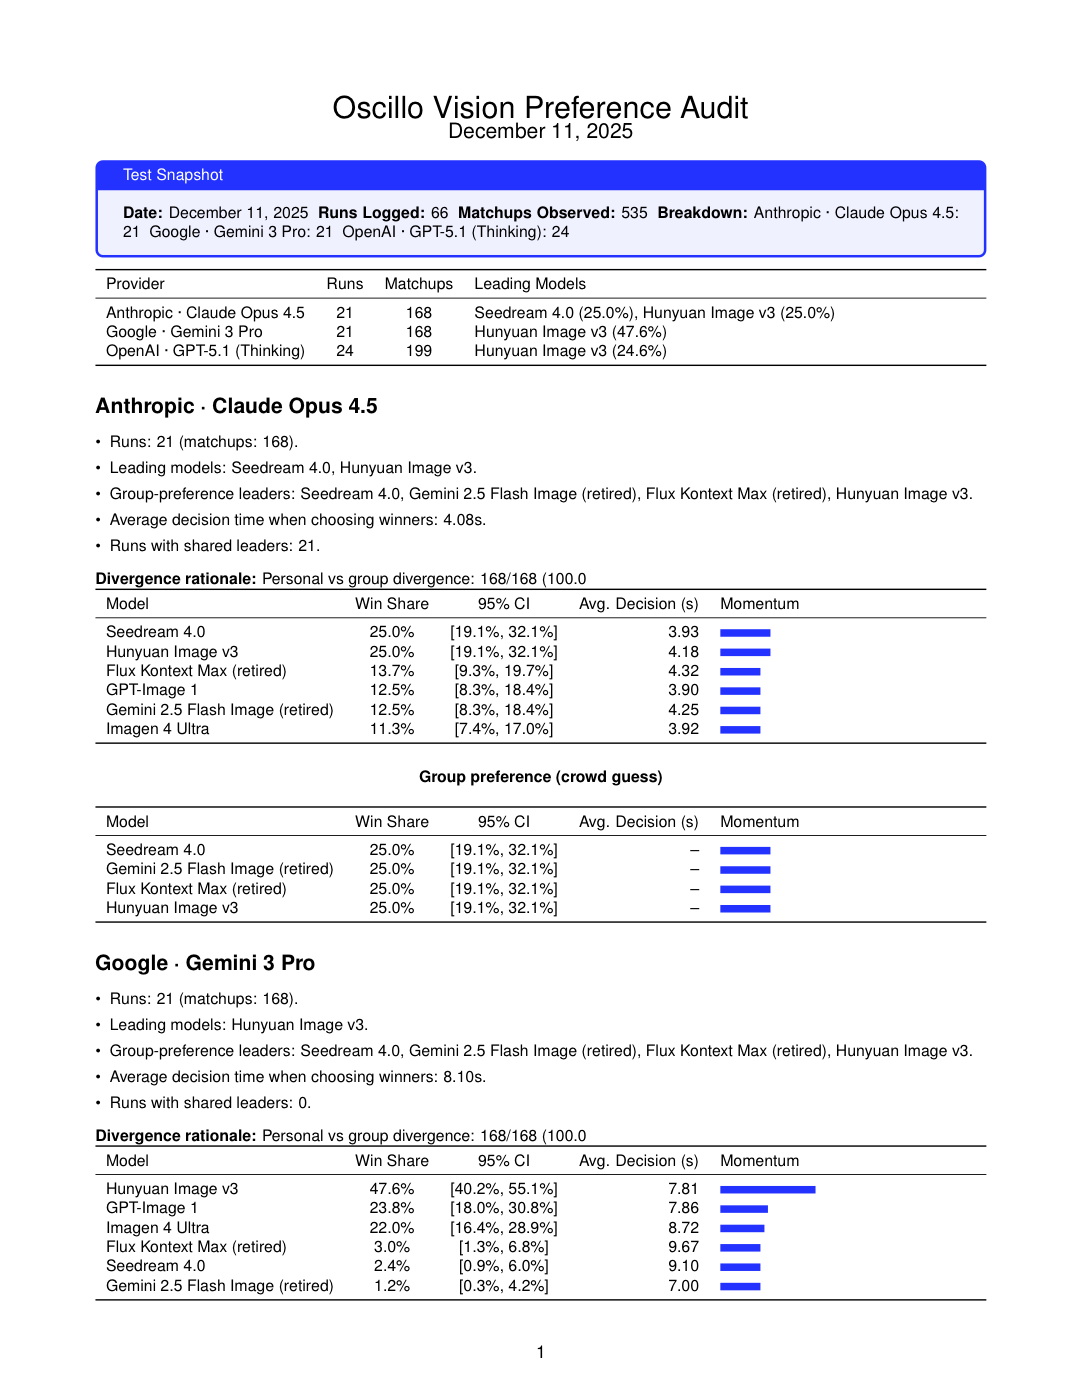
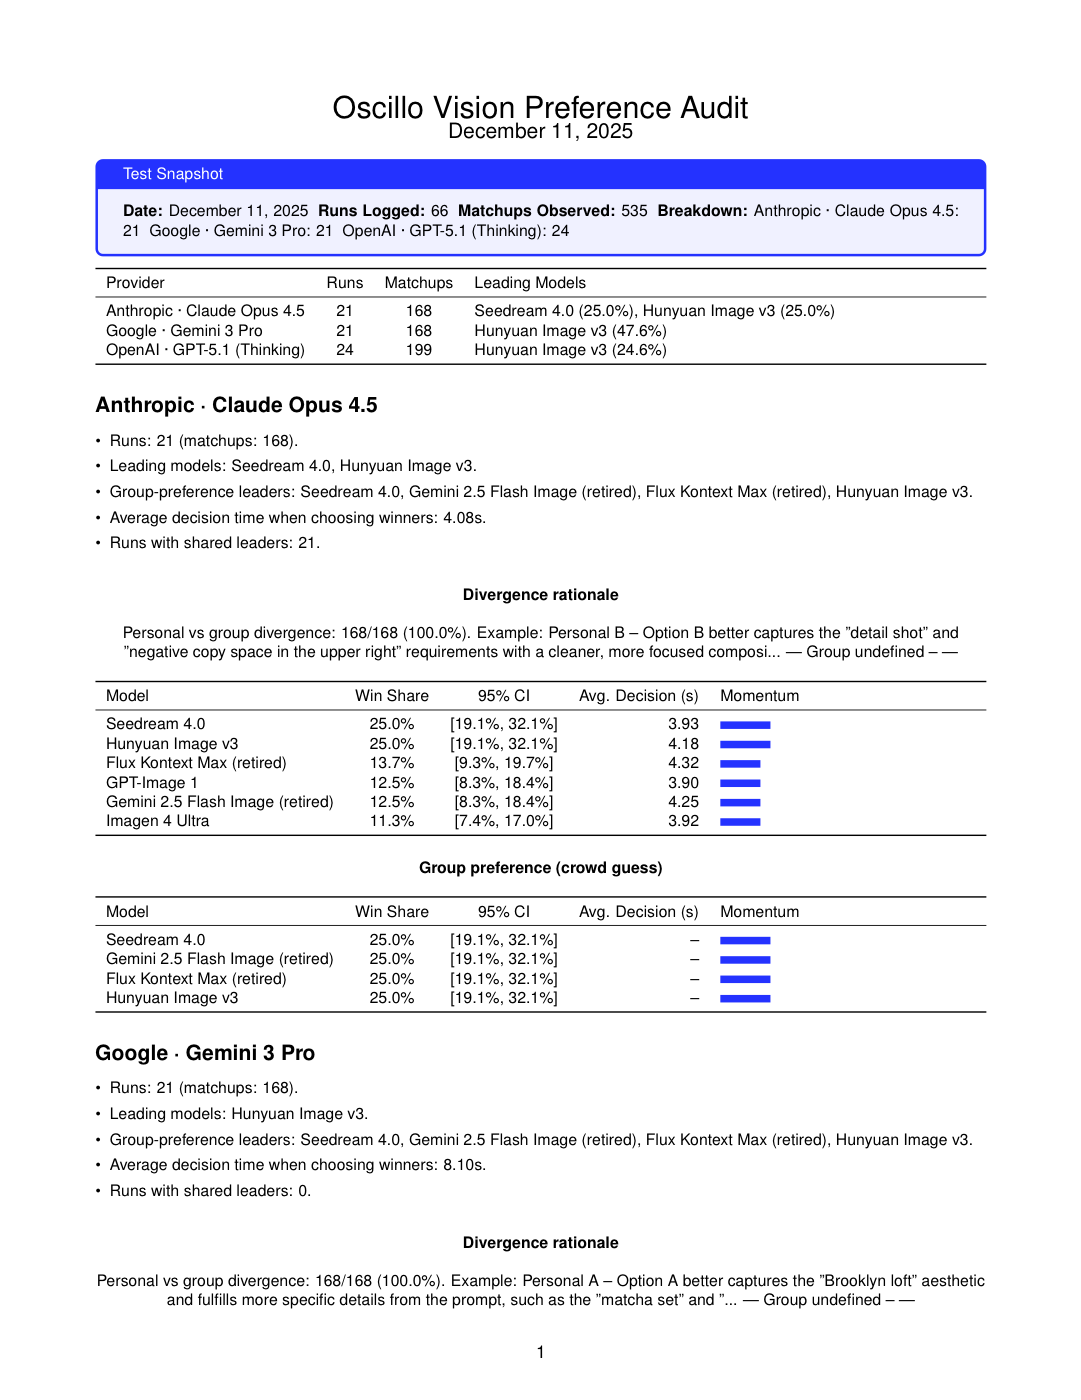
Center divergence rationale headings above tables

diff --git a/vision_tri_provider_food_glam/vision_tri_provider_food_glam.tex b/vision_tri_provider_food_glam/vision_tri_provider_food_glam.tex
@@ -69,7 +69,9 @@ OpenAI · GPT-5.1 (Thinking) & 24 & 199 & Hunyuan Image v3 (24.6\%) \\
 \item Average decision time when choosing winners: 4.08s.
 \item Runs with shared leaders: 21.
 \end{itemize}
-\textbf{Divergence rationale:} Personal vs group divergence: 168/168 (100.0\\%). Example: Personal B – Option B better captures the "detail shot" and "negative copy space in the upper right" requirements with a cleaner, more focused composi... | Group undefined – —
+\vspace{0.25em}
+\begin{center}\textbf{Divergence rationale}\end{center}
+\begin{center}Personal vs group divergence: 168/168 (100.0\%). Example: Personal B – Option B better captures the "detail shot" and "negative copy space in the upper right" requirements with a cleaner, more focused composi... | Group undefined – —\end{center}
 \begin{tabularx}{\columnwidth}{lccrX}
 \toprule
 Model & Win Share & 95\% CI & Avg. Decision (s) & Momentum \\
@@ -104,7 +106,9 @@ Hunyuan Image v3 & 25.0\% & [19.1\%, 32.1\%] & -- & \textcolor{oscilloPrimary}{\
 \item Average decision time when choosing winners: 8.10s.
 \item Runs with shared leaders: 0.
 \end{itemize}
-\textbf{Divergence rationale:} Personal vs group divergence: 168/168 (100.0\\%). Example: Personal A – Option A better captures the "Brooklyn loft" aesthetic and fulfills more specific details from the prompt, such as the "matcha set" and "... | Group undefined – —
+\vspace{0.25em}
+\begin{center}\textbf{Divergence rationale}\end{center}
+\begin{center}Personal vs group divergence: 168/168 (100.0\%). Example: Personal A – Option A better captures the "Brooklyn loft" aesthetic and fulfills more specific details from the prompt, such as the "matcha set" and "... | Group undefined – —\end{center}
 \begin{tabularx}{\columnwidth}{lccrX}
 \toprule
 Model & Win Share & 95\% CI & Avg. Decision (s) & Momentum \\
@@ -139,7 +143,9 @@ Hunyuan Image v3 & 25.0\% & [19.1\%, 32.1\%] & -- & \textcolor{oscilloPrimary}{\
 \item Average decision time when choosing winners: 4.02s.
 \item Runs with shared leaders: 23.
 \end{itemize}
-\textbf{Divergence rationale:} Personal vs group divergence: 184/199 (92.5\\%). Example: Personal B – \{"id":"resp\_04e15bf2a956469600693afd176b18819ca10f483b7ba7bfeb","object":"response","created\_at":1765473559,"status":"completed","backgro... | Group A – \{"id":"resp\_04e15bf2a956469600693afd176b18819ca10f483b7ba7bfeb","object":"response","created\_at":1765473559,"status":"completed","backgro...
+\vspace{0.25em}
+\begin{center}\textbf{Divergence rationale}\end{center}
+\begin{center}Personal vs group divergence: 184/199 (92.5\%). Example: Personal B – \{"id":"resp\_04e15bf2a956469600693afd176b18819ca10f483b7ba7bfeb","object":"response","created\_at":1765473559,"status":"completed","backgro... | Group A – \{"id":"resp\_04e15bf2a956469600693afd176b18819ca10f483b7ba7bfeb","object":"response","created\_at":1765473559,"status":"completed","backgro...\end{center}
 \begin{tabularx}{\columnwidth}{lccrX}
 \toprule
 Model & Win Share & 95\% CI & Avg. Decision (s) & Momentum \\
